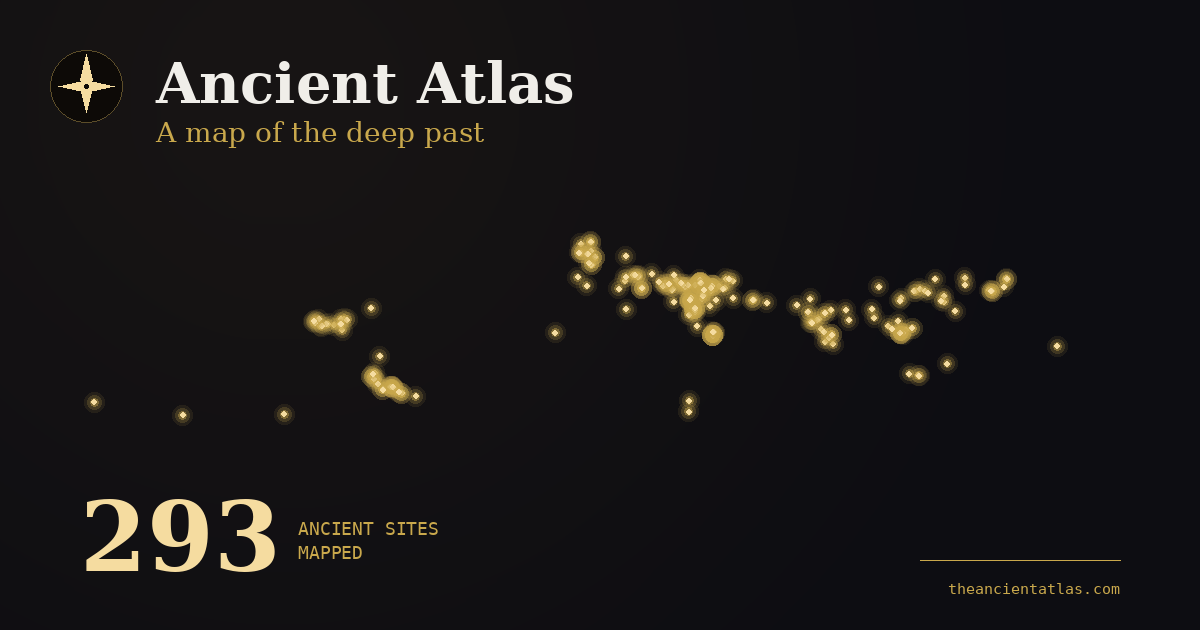
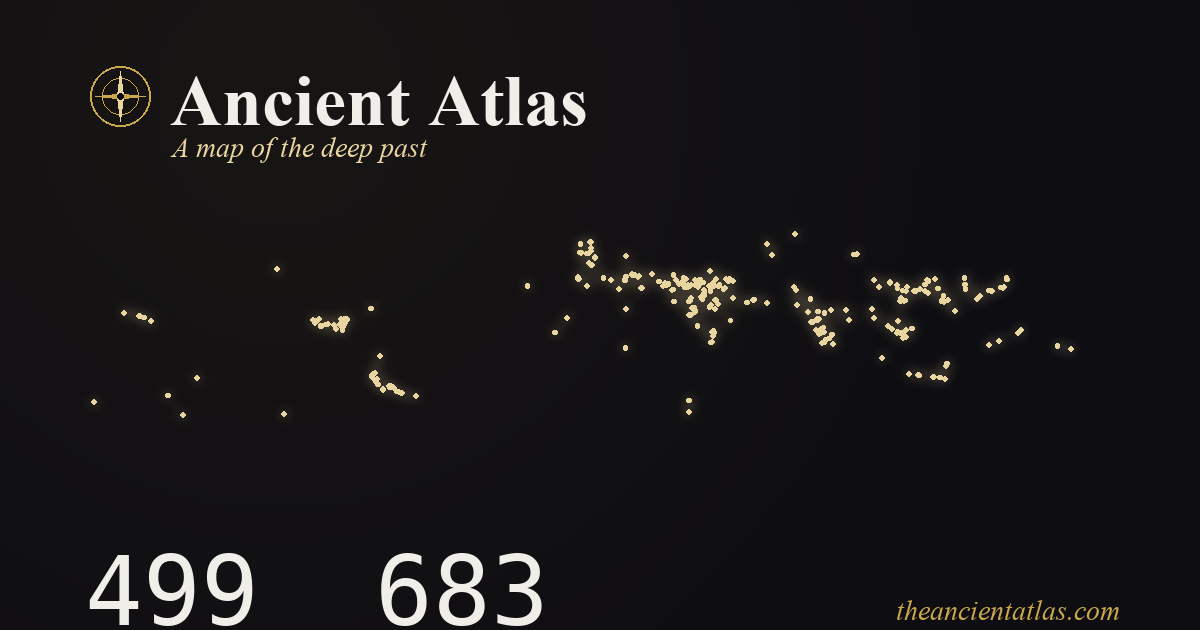
Regenerate og-image after Archaic Lens batch

diff --git a/scripts/regenerate-og-image.py b/scripts/regenerate-og-image.py
@@ -1,0 +1,205 @@
+#!/usr/bin/env python3
+"""
+regenerate-og-image.py — Build the Open Graph preview image from current
+sites.json + videos.json data.
+
+Reads:
+  data/sites.json
+  data/videos.json
+
+Writes:
+  public/og-image.png  (1200×630, the size Apple/Facebook/X expect)
+
+Run from the repo root after any content batch:
+    python3 scripts/regenerate-og-image.py
+    git add public/og-image.png
+    git commit -m "Regenerate og-image with current site count"
+    git push origin main
+
+NOTE on Apple Messages caching: Apple's link preview service caches
+og-image and og-description aggressively — sometimes 24-48 hours. To
+force a refresh in iMessage:
+  1. Deploy the new og-image.
+  2. In iMessage, paste the URL again as a new message in a different
+     chat. That re-triggers Apple's parser.
+  3. Or wait ~24 hours and Apple's CDN will pick up the new image.
+Old previews already in chats will not update — they're permanent.
+
+Dependencies: pip install Pillow --break-system-packages
+"""
+import json, os, sys
+from pathlib import Path
+from PIL import Image, ImageDraw, ImageFont, ImageFilter
+
+REPO_ROOT = Path(__file__).parent.parent
+DATA_DIR = REPO_ROOT / 'data'
+DEST = REPO_ROOT / 'public' / 'og-image.png'
+
+# Brand palette
+OBSIDIAN = (13, 13, 18)
+CHAMPAGNE = (201, 168, 76)
+CHAMPAGNE_PALE = (232, 213, 160)
+CHAMPAGNE_GLOW = (245, 220, 160)
+CLOUD = (197, 197, 208)
+IVORY = (240, 238, 233)
+MIST = (138, 138, 154)
+
+# ============================================================
+# 1. Load current data
+# ============================================================
+sites_path = DATA_DIR / 'sites.json'
+videos_path = DATA_DIR / 'videos.json'
+if not sites_path.exists() or not videos_path.exists():
+    sys.exit(f"Missing data files. Expected {sites_path} and {videos_path}")
+
+with open(sites_path) as f:
+    sites_data = json.load(f)
+with open(videos_path) as f:
+    videos_data = json.load(f)
+
+# Pull coords for plotting
+plot_sites = [(s.get('n', ''), float(s.get('lat', 0)), float(s.get('lng', 0)))
+              for s in sites_data
+              if s.get('lat') is not None and s.get('lng') is not None]
+site_count = len(plot_sites)
+vid_count = sum(len(v) for v in videos_data.values())
+
+print(f"Sites: {site_count}  Walkthroughs: {vid_count}")
+
+# ============================================================
+# 2. Canvas + ambient glow
+# ============================================================
+W, H = 1200, 630
+img = Image.new('RGB', (W, H), OBSIDIAN)
+
+glow = Image.new('RGB', (W, H), OBSIDIAN)
+gdraw = ImageDraw.Draw(glow)
+for r in range(800, 0, -8):
+    a = max(0, 1 - r / 800)
+    rgb = (
+        int(OBSIDIAN[0] + (58 - OBSIDIAN[0]) * a * 0.45),
+        int(OBSIDIAN[1] + (45 - OBSIDIAN[1]) * a * 0.45),
+        int(OBSIDIAN[2] + (29 - OBSIDIAN[2]) * a * 0.45),
+    )
+    gdraw.ellipse((280 - r, 100 - r, 280 + r, 100 + r), fill=rgb)
+glow = glow.filter(ImageFilter.GaussianBlur(60))
+img = Image.blend(img, glow, 0.6)
+draw = ImageDraw.Draw(img)
+
+# ============================================================
+# 3. World map dots — equirectangular projection
+# ============================================================
+MAP_LEFT, MAP_TOP, MAP_RIGHT, MAP_BOTTOM = 80, 180, 1120, 540
+MAP_W = MAP_RIGHT - MAP_LEFT
+MAP_H = MAP_BOTTOM - MAP_TOP
+
+def project(lat, lng):
+    x = MAP_LEFT + (lng + 180) / 360 * MAP_W
+    y = MAP_TOP + (90 - lat) / 180 * MAP_H
+    return x, y
+
+# Soft glow layer for dots
+dot_glow = Image.new('RGBA', (W, H), (0, 0, 0, 0))
+gd = ImageDraw.Draw(dot_glow)
+for name, lat, lng in plot_sites:
+    x, y = project(lat, lng)
+    gd.ellipse((x - 8, y - 8, x + 8, y + 8), fill=(*CHAMPAGNE_GLOW, 50))
+dot_glow = dot_glow.filter(ImageFilter.GaussianBlur(6))
+img.paste(dot_glow, (0, 0), dot_glow)
+draw = ImageDraw.Draw(img)
+
+# Crisp dots on top
+for name, lat, lng in plot_sites:
+    x, y = project(lat, lng)
+    draw.ellipse((x - 2.4, y - 2.4, x + 2.4, y + 2.4), fill=CHAMPAGNE_PALE)
+
+# ============================================================
+# 4. Fonts (try Fraunces, fall back to system)
+# ============================================================
+def load_font(candidates, size):
+    for path in candidates:
+        try:
+            return ImageFont.truetype(path, size)
+        except Exception:
+            continue
+    return ImageFont.load_default()
+
+FRAUNCES_BOLD = load_font([
+    "/System/Library/Fonts/Supplemental/Times New Roman Bold.ttf",
+    "/Library/Fonts/Fraunces-Bold.ttf",
+    "/System/Library/Fonts/Helvetica.ttc",
+], 72)
+FRAUNCES_ITALIC = load_font([
+    "/System/Library/Fonts/Supplemental/Times New Roman Italic.ttf",
+    "/Library/Fonts/Fraunces-Italic.ttf",
+    "/System/Library/Fonts/Helvetica.ttc",
+], 28)
+MONO_REG = load_font([
+    "/System/Library/Fonts/Menlo.ttc",
+    "/System/Library/Fonts/Monaco.ttc",
+    "/System/Library/Fonts/Courier.ttc",
+], 14)
+MONO_BIG = load_font([
+    "/System/Library/Fonts/Menlo.ttc",
+    "/System/Library/Fonts/Monaco.ttc",
+    "/System/Library/Fonts/Courier.ttc",
+], 96)
+
+# ============================================================
+# 5. Compass mark + brand
+# ============================================================
+def draw_compass(cx, cy, r):
+    # Outer ring
+    draw.ellipse((cx - r, cy - r, cx + r, cy + r), outline=CHAMPAGNE, width=2)
+    inner = int(r * 0.62)
+    draw.ellipse((cx - inner, cy - inner, cx + inner, cy + inner),
+                 outline=CHAMPAGNE, width=1)
+    # Compass star (4-arm)
+    arm_len = int(r * 0.85)
+    arm_w = max(3, int(r * 0.10))
+    draw.polygon([(cx, cy - arm_len), (cx + arm_w, cy), (cx, cy + arm_len), (cx - arm_w, cy)],
+                 fill=CHAMPAGNE_PALE)
+    draw.polygon([(cx - arm_len, cy), (cx, cy - arm_w), (cx + arm_len, cy), (cx, cy + arm_w)],
+                 fill=CHAMPAGNE)
+    draw.ellipse((cx - 3, cy - 3, cx + 3, cy + 3), fill=OBSIDIAN)
+
+draw_compass(120, 96, 30)
+draw.text((170, 60), "Ancient Atlas", font=FRAUNCES_BOLD, fill=IVORY)
+draw.text((172, 132), "A map of the deep past", font=FRAUNCES_ITALIC, fill=CHAMPAGNE_PALE)
+
+# ============================================================
+# 6. Stat block (bottom-left)
+# ============================================================
+STAT_TOP = 565
+COL_GAP = 290
+
+# Site count
+draw.text((85, STAT_TOP - 30), f"{site_count}",
+          font=MONO_BIG, fill=IVORY)
+draw.text((85, STAT_TOP + 65), "ANCIENT SITES MAPPED",
+          font=MONO_REG, fill=MIST)
+
+# Walkthrough count
+draw.text((85 + COL_GAP, STAT_TOP - 30), f"{vid_count}",
+          font=MONO_BIG, fill=IVORY)
+draw.text((85 + COL_GAP, STAT_TOP + 65), "WALKTHROUGHS WIRED",
+          font=MONO_REG, fill=MIST)
+
+# URL on right
+url_text = "theancientatlas.com"
+url_bbox = draw.textbbox((0, 0), url_text, font=FRAUNCES_ITALIC)
+url_w = url_bbox[2] - url_bbox[0]
+draw.text((W - 80 - url_w, STAT_TOP + 30), url_text,
+          font=FRAUNCES_ITALIC, fill=CHAMPAGNE)
+
+# ============================================================
+# 7. Save
+# ============================================================
+DEST.parent.mkdir(parents=True, exist_ok=True)
+img.save(DEST, "PNG", optimize=True)
+print(f"Saved: {DEST}  ({os.path.getsize(DEST) / 1024:.0f} KB)")
+print()
+print("Next steps:")
+print(f"  git add public/og-image.png")
+print(f"  git commit -m \"Regenerate og-image: {site_count} sites, {vid_count} walkthroughs\"")
+print(f"  git push origin main")
